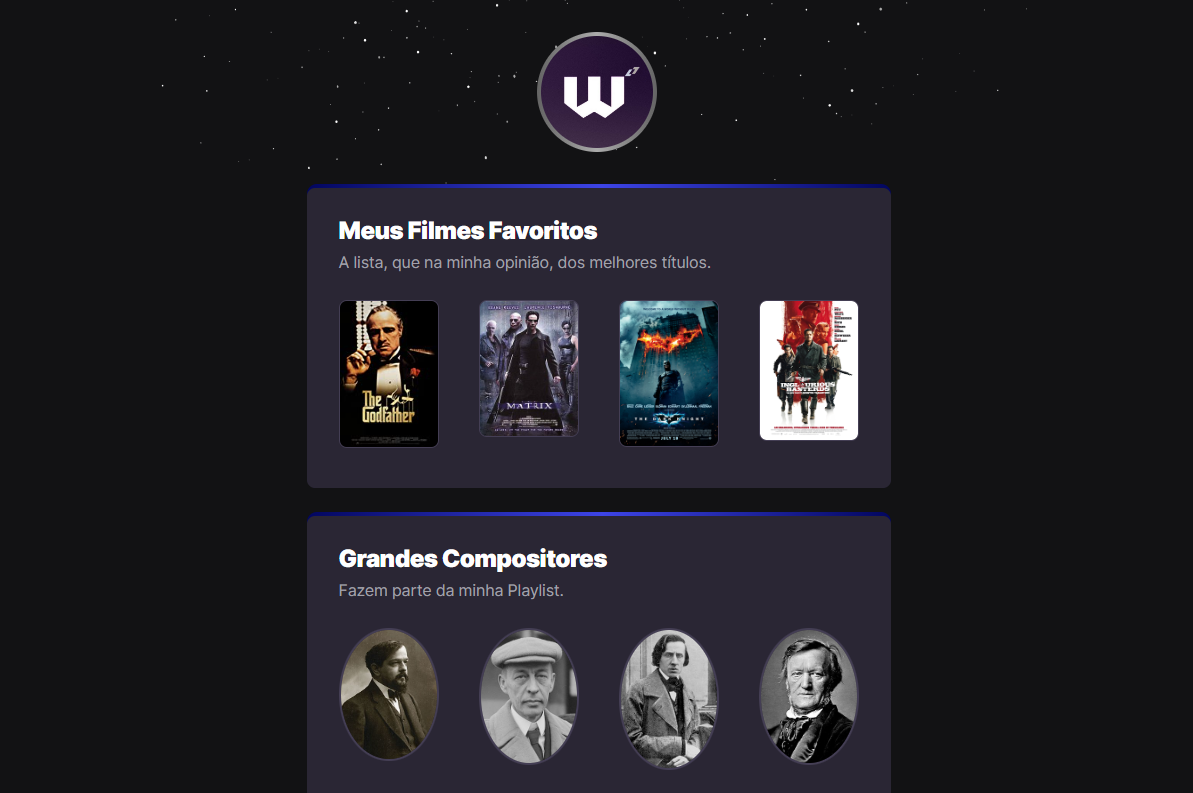
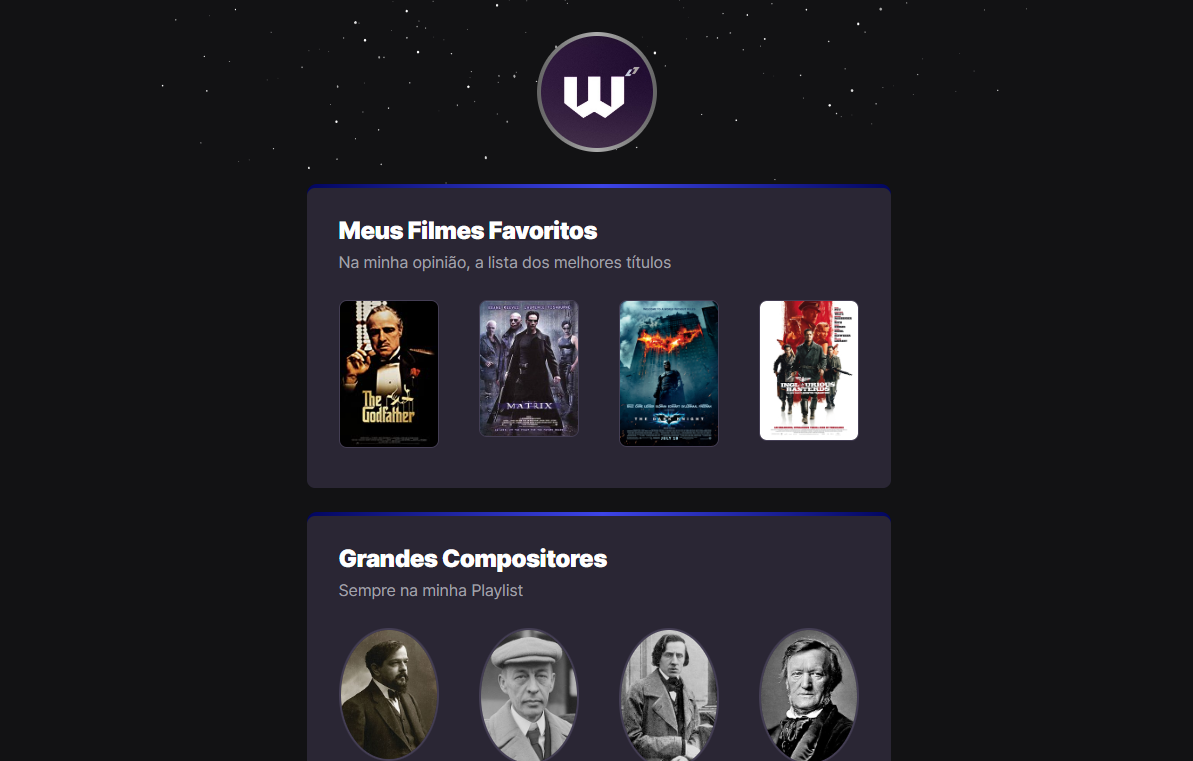
updateIndex

diff --git a/index.html b/index.html
@@ -18,14 +18,14 @@
                     <div>
                         <img 
                         src="https://github.com/wisecoden.png" 
-                        alt="Design logo  W na cor branco com fundo roxo gradiente">
+                        alt="Design logo W na cor branco com fundo roxo gradiente">
                     </div> 
             </header> 
             <main>
                     <section>
                         <div>
                             <h2>Meus Filmes Favoritos</h2>
-                            <p>A lista, que na minha opinião, dos melhores títulos.</p>
+                            <p>Na minha opinião, a lista dos melhores títulos</p>
                             
                             <ul class="films-list">
                                         <li>
@@ -53,14 +53,14 @@
                                             </a>
                                         </li>
 
-                                    <li>
-                                        <a
-                                        target="_blank" 
-                                        href="https://www.imdb.com/title/tt0361748/?ref_=tt_mv_close">
-                                        <img src="https://upload.wikimedia.org/wikipedia/en/c/c3/Inglourious_Basterds_poster.jpg"
-                                        alt="Poster 'Bastados inglórios'">
-                                    </a>
-                                    </li>
+                                        <li>
+                                            <a
+                                                target="_blank" 
+                                                href="https://www.imdb.com/title/tt0361748/?ref_=tt_mv_close">
+                                                <img src="https://upload.wikimedia.org/wikipedia/en/c/c3/Inglourious_Basterds_poster.jpg"
+                                                alt="Poster 'Bastados inglórios'">
+                                            </a>
+                                        </li>
                             </ul>
                     
                         </div>
@@ -70,7 +70,7 @@
 
                         <div>
                             <h2>Grandes Compositores</h2>
-                            <p>Fazem parte da minha Playlist.</p>
+                            <p>Sempre na minha Playlist</p>
                             
                             <ul class="composers-liszt">
                                 <li>
